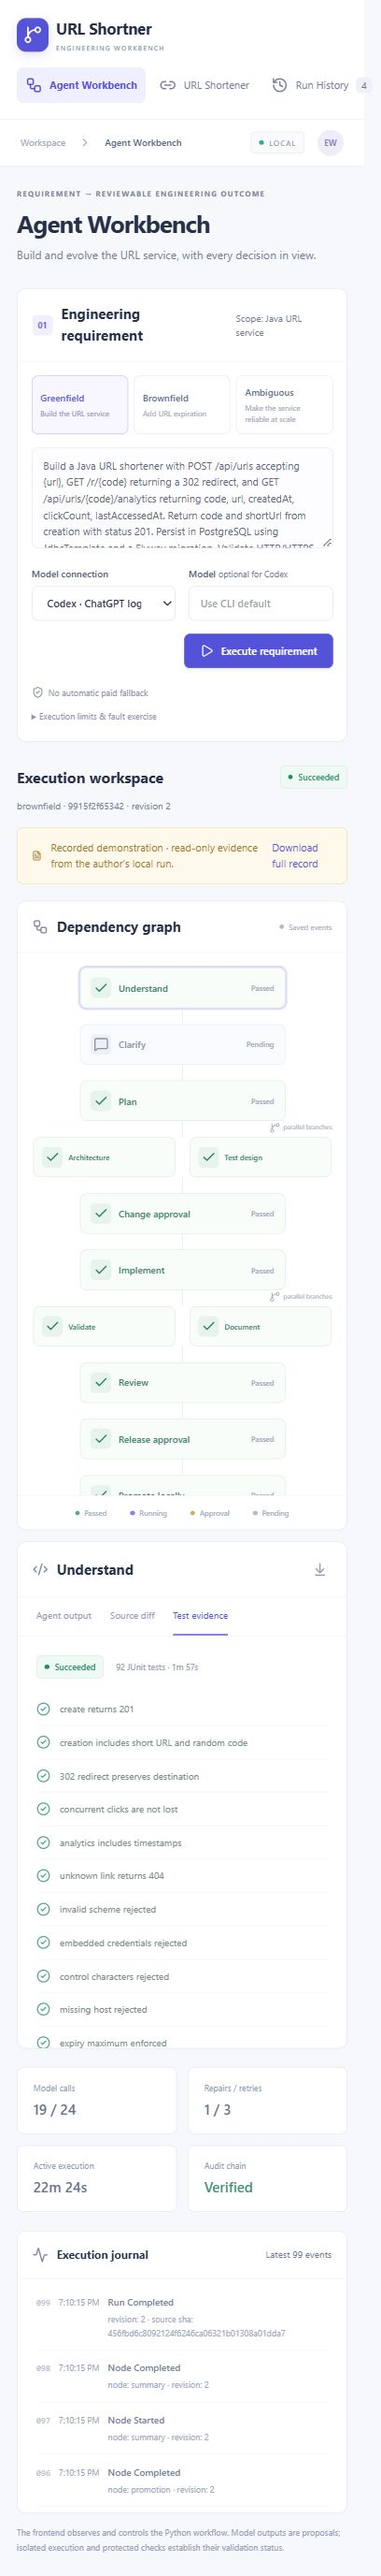
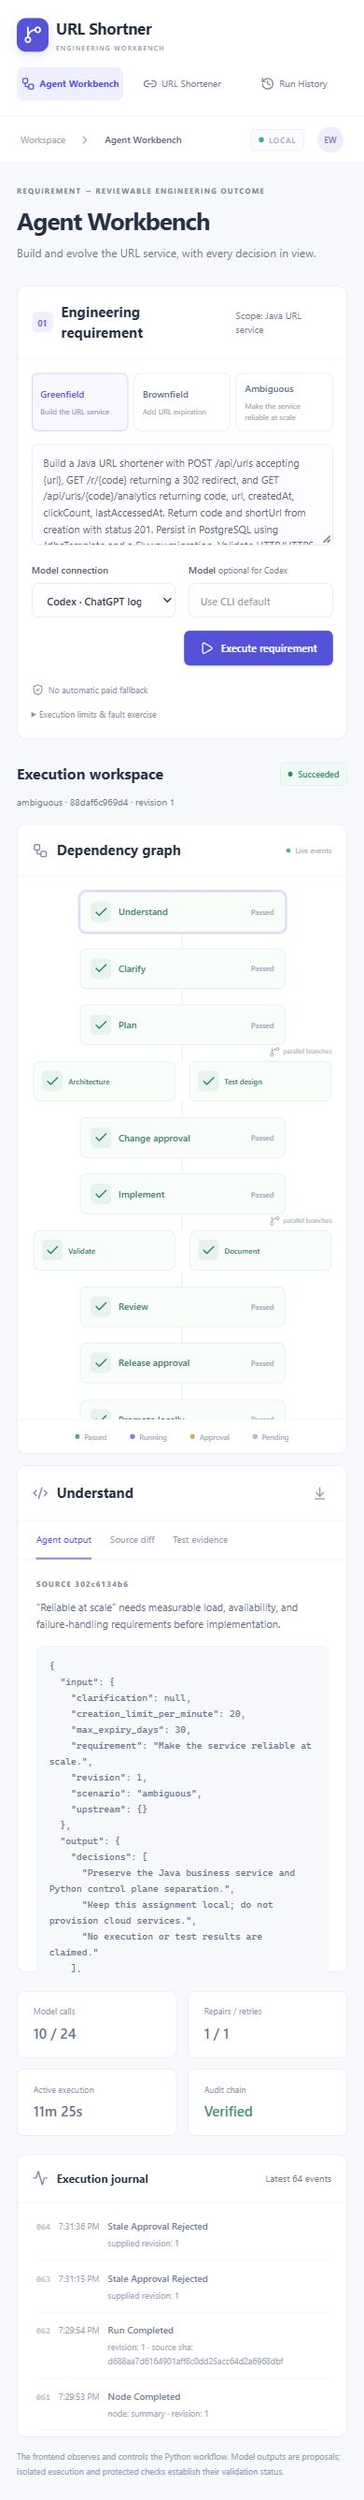
docs: deliver final verification receipts, isolated storage and interview evidence

diff --git a/orchestrator/engine.py b/orchestrator/engine.py
@@ -165,7 +165,11 @@ class Engine:
         self.store.event(run["id"], "clarification_required", questions=questions, revision=run["revision"])
         answer = interrupt({"kind": "clarification", "questions": questions})
         self.check(state)
-        self.store.update(run["id"], lambda r: r.update(clarification=str(answer), pending=None, status="running"))
+        def resolved(r):
+            r.update(clarification=str(answer), pending=None, status="running")
+            if re.search(r"\b(?:7|30)\s+days?\b", str(answer)):
+                r["max_expiry_days"] = self.expiry_days(str(answer))
+        self.store.update(run["id"], resolved)
         self.begin(state, "clarification")
         self.finish(state, "clarification", {"answers": str(answer), "revision": run["revision"]})
         return {}
@@ -397,6 +401,10 @@ class Engine:
             self.gateway.forget(run_id)
             raise
         requirement = request.requirement.strip() or self.catalog[request.scenario]["requirement"]
+        maximum_days = self.expiry_days(requirement)
+        if request.scenario == "ambiguous":
+            demo_file = self.project / ".runtime/demo.json"
+            maximum_days = json.loads(demo_file.read_text()).get("max_expiry_days", 7) if demo_file.exists() else 7
         if re.search(r"\bsk-(?:ant-)?[A-Za-z0-9_-]{8,}", requirement) or (request.api_key and request.api_key.get_secret_value() in requirement):
             self.gateway.forget(run_id)
             raise PolicyError("Keep credentials in the masked key field, never in the requirement")
@@ -406,7 +414,7 @@ class Engine:
                "retries": 0, "rollbacks": 0, "active_seconds": 0, "pending": None,
                "nodes": {node: {"status": "pending"} for node in NODES}, "artifacts": {},
                "inject_fault": request.inject_fault, "fault_injected": False,
-               "max_expiry_days": self.expiry_days(requirement), "base_sha": self.workspaces.head(run_id), "last_validated_sha": None,
+               "max_expiry_days": maximum_days, "base_sha": self.workspaces.head(run_id), "last_validated_sha": None,
                "target_fingerprint": self.workspaces.directory_fingerprint(self.project / "backend")}
         self.store.save(run)
         self.store.event(run_id, "run_created", scenario=request.scenario, revision=1, requirement=requirement, config=run["config"], base_sha=run["base_sha"])

diff --git a/scripts/verify_isolation.py b/scripts/verify_isolation.py
@@ -42,6 +42,14 @@ def main():
     code = "import socket; s=socket.socket(); s.settimeout(2); r=s.connect_ex(('1.1.1.1',443)); print(r); assert r != 0"
     probe = subprocess.run(["docker", "run", "--rm", "--network", network, "--read-only", "--cap-drop", "ALL", "--security-opt", "no-new-privileges", "--security-opt", f"seccomp={ROOT / 'infra/runner/seccomp.json'}", "--memory", "128m", "--cpus", "1", "--pids-limit", "32", "urlshortner-acceptance:local", "-c", code], capture_output=True, text=True)
     checks["external_connection_blocked"] = probe.returncode == 0
+    engineering = inspect("inspect", "url-shortner-postgres-1")
+    engineering_ip = next(iter(engineering["NetworkSettings"]["Networks"].values()))["IPAddress"]
+    import ipaddress
+    ipaddress.ip_address(engineering_ip)
+    checks["engineering_database_separate_network"] = not set(engineering["NetworkSettings"]["Networks"]).intersection(networks)
+    database_probe = f"import socket; s=socket.socket(); s.settimeout(2); r=s.connect_ex(('{engineering_ip}',5432)); assert r != 0"
+    blocked = subprocess.run(["docker", "run", "--rm", "--network", network, "--read-only", "--cap-drop", "ALL", "--security-opt", "no-new-privileges", "--security-opt", f"seccomp={ROOT / 'infra/runner/seccomp.json'}", "--memory", "128m", "--cpus", "1", "--pids-limit", "32", "urlshortner-acceptance:local", "-c", database_probe], capture_output=True, text=True)
+    checks["engineering_database_connection_blocked"] = blocked.returncode == 0
     report = {"passed": all(checks.values()), "checks": checks, "networks": networks, "outbound_probe_exit": probe.returncode}
     output = ROOT / "verification/isolation.json"
     output.parent.mkdir(exist_ok=True)

diff --git a/verification/REPORT.md b/verification/REPORT.md
@@ -6,23 +6,37 @@ tests and scripted decisions. The private repository requires reviewer access.
 
 | Check | Observed result |
 |---|---|
-| Python orchestration/security suite | 42 passed, 1 skipped. The symlink-file test was skipped because Windows did not grant symlink creation; path/traversal/case-alias policy checks passed. |
+| Python orchestration/security suite | 46 passed, 1 skipped; machine-readable python-junit.xml included. The symlink-file test was skipped because Windows did not grant symlink creation; path/traversal/case-alias policy checks passed. |
 | Optional provider adapters | 11 transport/security tests passed after adding native structured output for Claude; no live OpenAI/Claude API call was made. |
 | Frontend | TypeScript check and production build passed. |
 | Final Java service | 100 JUnit tests passed. |
 | Independent HTTP API/rate checks | 13 passed, including concurrent click counting, input rejection, 429, Retry-After and unlimited redirects. |
 | Expiration plus populated V1 upgrade | 18 passed, preserving a legacy link and its clicks, non-expiring legacy behavior, seven-day cap, 410 and unchanged expired counts. |
-| Docker isolation | 10 checks passed, including an external numeric-IP connection being blocked. See isolation.json. |
+| Docker isolation | 14 checks passed, including an active explicit kernel syscall filter, blocked external access and blocked connection to the separately networked engineering database. See isolation.json. |
 | Browser flow | Created a real ambiguous run, inspected/answered clarification, approved sandbox and release gates, inspected saved evidence, created a link, followed it and observed count 0 → 1. |
 | Restart at release checkpoint | Exact approval, source SHA and model calls retained after server restart and browser refresh; recorded in the ambiguous run. |
 | Obsolete approval | Replaying brownfield revision 1 approval against revision 2 returned HTTP 409. |
-| Fresh checkout | Final verification is in progress; the receipt will be added after installation/startup checks. |
+| Fresh checkout | A clean local Git clone installed a new virtual environment, built the app and ran without Codex available in its server PATH. Four archives and their event chains remained inspectable; URL creation/redirect/analytics and preserved data passed. Existing Docker download caches and database volumes were retained. See fresh-checkout.json and fresh-checkout-service.json. |
+| Database promotion rehearsal | Real fresh greenfield database, brownfield template copy preserving an existing link/clicks, and restoration of the prior demo passed using previously validated jars. This was model-free, not a new agent run. See database-promotion.json. |
+| Mobile layout | Browser device emulation at 390 × 844: viewport and page width both 390, with no page overflow. Screenshot included; no physical-device claim. |
 
 The first final HTTP verification attempt hit a Docker timeout while launching the
 application. Its result is retained in `attempts/before-runtime-separation.json`.
 The final checks reused that passing 100-test jar after separating the small runtime
 image from the build image; both HTTP suites passed. The compose image also compiled
 and ran the 100-test suite with external networking disabled.
+
+Fresh setup also found a Gradle plugin-redirect TLS failure, a manifest-reference
+mistake and startup/cleanup timing issues; the stage commits retain these fixes.
+The pinned plugins now resolve directly from Maven Central with certificate checks
+enabled. The trusted cache contains only the fixed manifests and starter entry point.
+
+Historical live runs used the original shared PostgreSQL arrangement and daemon
+syscall defaults. Final controls were then strengthened and tested separately:
+engineering PostgreSQL is unreachable from generated code's internal network,
+business databases are retained per promotion, and containers explicitly apply the
+reviewed Moby syscall policy. Historical evidence has not been rewritten to claim
+these controls were active during earlier runs.
 
 ## Live scenarios
 

diff --git a/README.md b/README.md
@@ -23,8 +23,10 @@ python scripts/start.py
 
 On macOS/Linux, use `python3` if `python` is unavailable. Open
 **http://127.0.0.1:8000**. The Java API is also available through a local proxy at
-http://127.0.0.1:8080. PostgreSQL binds only to 127.0.0.1:55432. These fixed ports
-and named containers support one local installation at a time.
+http://127.0.0.1:8080 for reads; use the session-protected port 8000 for mutations.
+Engineering PostgreSQL binds only to 127.0.0.1:55432. Business PostgreSQL is a
+separate container on the internal network, with no published port. These fixed
+ports and named containers support one local installation at a time.
 
 The submitted URL service, UI, automated tests and bundled evidence work without
 a model connection. **New live engineering runs need the operator's own model
@@ -85,6 +87,11 @@ distinguishes ChatGPT subscription access from API-key usage.
    unlimited redirects and an explicit single-instance limitation.
 
 Only one run may be active or waiting. Finish or stop it before another run.
+New live brownfield runs require a newly promoted greenfield source/database pair
+in this installation. Greenfield starts a fresh link collection; enhancements copy
+the appropriate existing database, retaining the previous demo for rollback. See
+[database promotion](docs/DATABASE_PROMOTION.md). Saved scenario evidence is
+immediately readable and does not require a new greenfield run.
 Parallel nodes can overlap inside that run. UI refresh/closure does not drive or
 erase execution. Runs and LangGraph checkpoints persist in PostgreSQL; after a
 worker restart, interrupted runs require **Resume**. Temporary API credentials

diff --git a/docs/SECURITY.md b/docs/SECURITY.md
@@ -7,9 +7,10 @@
 | Source vs test authority | Protected HTTP checks reside in a separate trusted image; the model cannot edit them |
 | Generated code vs host | Docker source mount is read-only; compilation happens on an internal copy; no host credentials or Docker socket |
 | Network access | Build network disabled; candidate/demo applications use internal networks; browser access uses a fixed trusted bridge |
-| Business vs control data | Separate URL database/least-privilege role and engineering database |
+| Business vs control data | Separate PostgreSQL containers/networks; URL role has business access only; generated code cannot connect to engineering PostgreSQL |
 | Decision vs side effect | Approval interrupts, exact artifact/revision matching, promotion receipts |
-| Browser vs control APIs | Loopback bind/Host checks, exact local Origin validation, HttpOnly SameSite cookie, CSRF header for mutations |
+| Browser vs control APIs | Loopback bind/Host checks, exact local Origin validation, HttpOnly SameSite cookie, CSRF header for mutations; fixed bridge rejects foreign origins and requires the trusted proxy marker |
+| Kernel calls | Explicit reviewed Moby syscall policy, independent of daemon defaults; active kernel filter verified |
 | API keys vs persistence | Masked input, server memory only, no browser storage/graph checkpoint/log/artifact/test environment |
 | Subscription vs API billing | ChatGPT login checked, API env keys stripped from CLI, API adapters opt-in, no automatic provider fallback |
 

diff --git a/docs/BUILD_JOURNAL.md b/docs/BUILD_JOURNAL.md
@@ -45,6 +45,13 @@ validated expiry service. [2e471dd](https://github.com/dkaushik62/URL-Shortner/c
 adopts the clarified creation limiter. Fresh-checkout verification is recorded in
 the verification report. Failed attempts remain in the record.
 
+The later commits record reproducibility and security corrections found by real
+checks: runtime/build separation, explicit syscall filtering, plugin downloads,
+startup/cleanup timing, retained database revisions, network-separated engineering
+storage and bridge protection. They are platform verification changes; the archived
+agent runs are not presented as executing these later revisions. See
+[the verification report](../verification/REPORT.md) for final coverage and receipts.
+
 ## Interview route
 
 1. Read the five stage commits in order and the architecture diagram.

diff --git a/docs/ARCHITECTURE.md b/docs/ARCHITECTURE.md
@@ -38,6 +38,10 @@ preventing adoption from overwriting unrelated edits.
 The trusted bridge has a fixed destination and forwards business requests only.
 Generated demo code stays on an internal Docker network; it has no external egress.
 The database role for URL data has no permission to access engineering data. A new
+business PostgreSQL container has its own internal network; generated code has no
+route to the engineering PostgreSQL container. New promotions retain separate
+business database revisions for fresh greenfield and copied enhancement baselines.
+See [database promotion](DATABASE_PROMOTION.md). A new
 test database and application are created per validation; they are cleaned up and
 their results/jar retained in immutable attempt directories.
 
